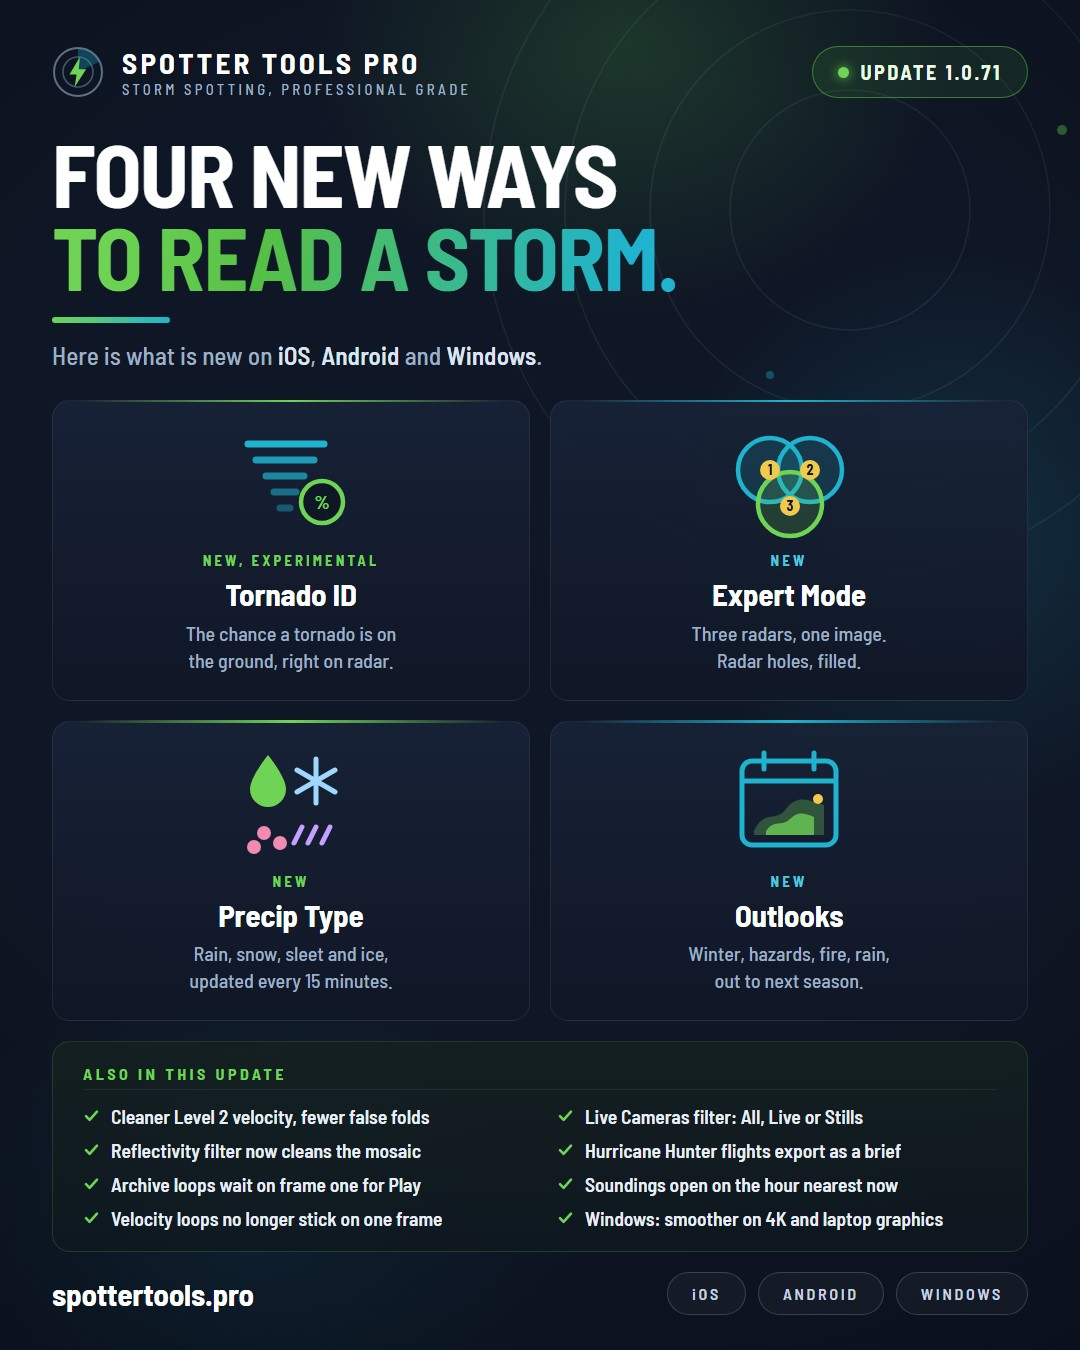
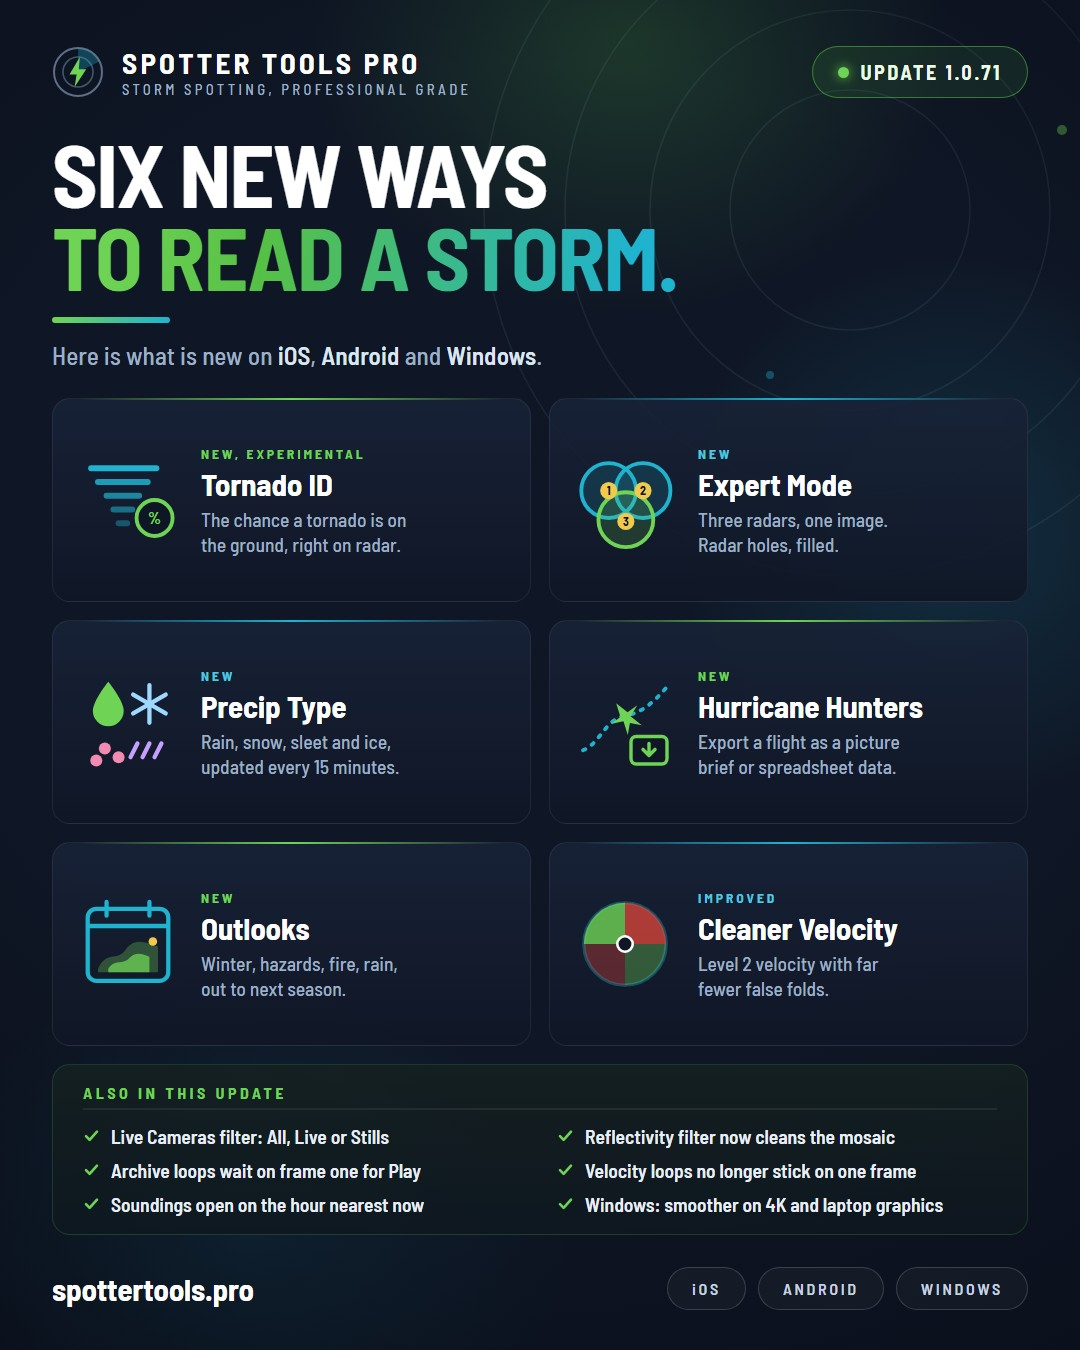
feat(site): 1.0.71 graphic highlights six features; Hurricane Hunter export promoted

diff --git a/src/content/whats-new/1.0.71.md b/src/content/whats-new/1.0.71.md
@@ -56,6 +56,15 @@ The Outlooks layer now carries nearly everything the Weather Prediction Center a
 - **Monthly and seasonal** temperature and precipitation outlooks, and the monthly and seasonal drought outlooks beside the Drought Monitor.
 - **Faster everywhere.** Outlooks now load from our own servers in a fraction of the time, with NOAA as the backup if our copy is ever unavailable.
 
+## Hurricane Hunters: export a flight
+
+Hurricane Hunter data is some of the most shared weather information during a landfall. Now you can share it straight from the app.
+
+- **A picture brief, ready to post.** From a flight's graphs, tap Export and choose **Share image**. You get a clean two page brief: the headline numbers, the flight track, the wind and pressure charts, the centre fixes and the crew's own remarks, like "eyewall beginning to form". It is the same tidy layout whether you share it from a folded phone or a 4K monitor, and every page is dated and names its source so it still makes sense when it is reshared days later.
+- **Or the raw data.** **Share data** gives you two spreadsheet files, the flight observations and the centre fixes, in the aircraft's own units so they match the official bulletins.
+- **Works on every platform** through your phone's or PC's normal share menu.
+- **Live tracks recover faster** after the data feed stalls. A stalled flight used to be mistaken for a landed one and checked less often, right when it needed checking more.
+
 ## Radar
 
 - **Level 2 velocity is much cleaner.** We rebuilt how the app unfolds velocity and graded it pixel by pixel against the National Weather Service's own Level III product on 43 storms. Patches of wrong colour, the kind that can look like a fake couplet, are about a third as common and flicker far less from scan to scan.
@@ -69,11 +78,6 @@ The Outlooks layer now carries nearly everything the Weather Prediction Center a
 ## Cameras
 
 - **New filter in the Live Cameras sheet:** show **All**, **Live** video only or **Stills** only, with a count of each and of how many are on the map right now.
-
-## Hurricane Hunters
-
-- **Export a flight.** From a flight's graphs, share it as a two page picture brief (the track, wind and pressure charts, the centre fixes and the crew's remarks) or as data files for a spreadsheet.
-- **Live tracks recover faster** after the data feed stalls. A stalled flight used to be mistaken for a landed one and checked less often, right when it needed checking more.
 
 ## Fixes and polish
 
